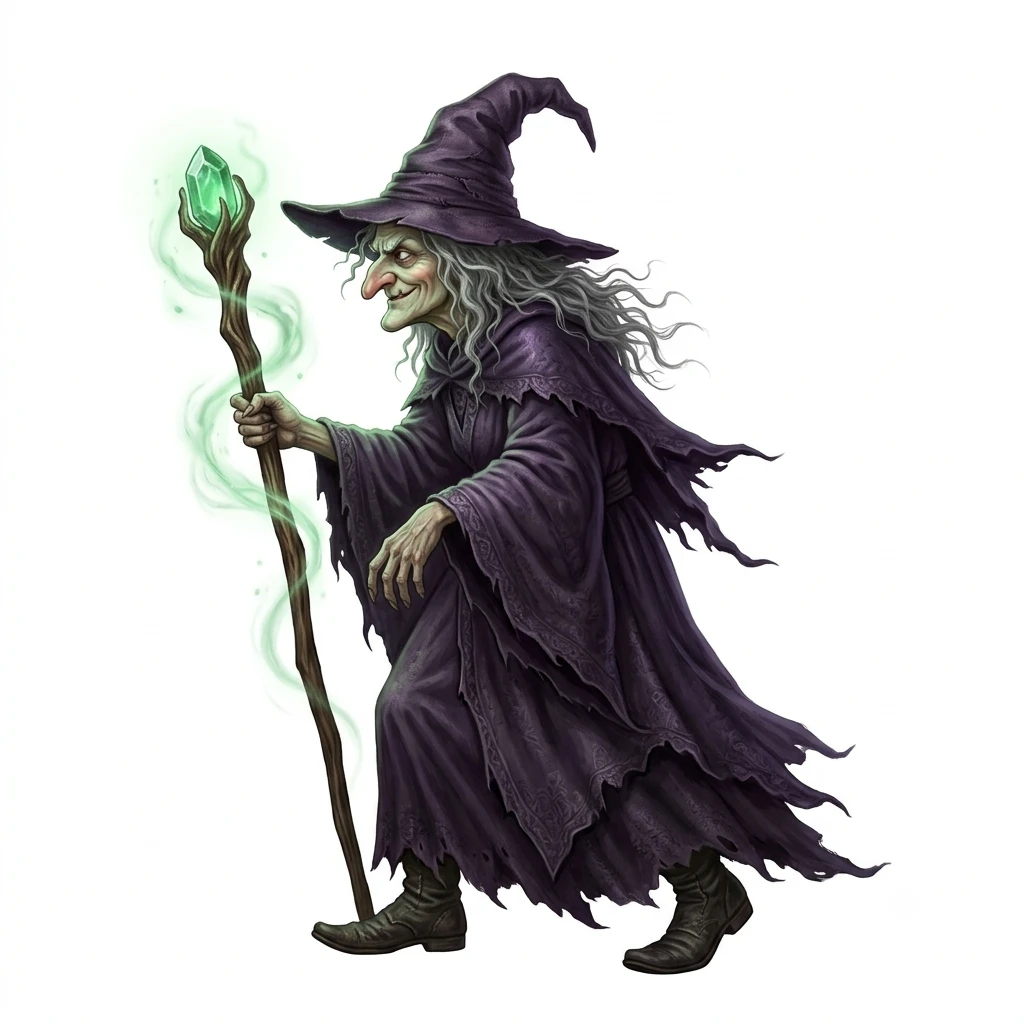
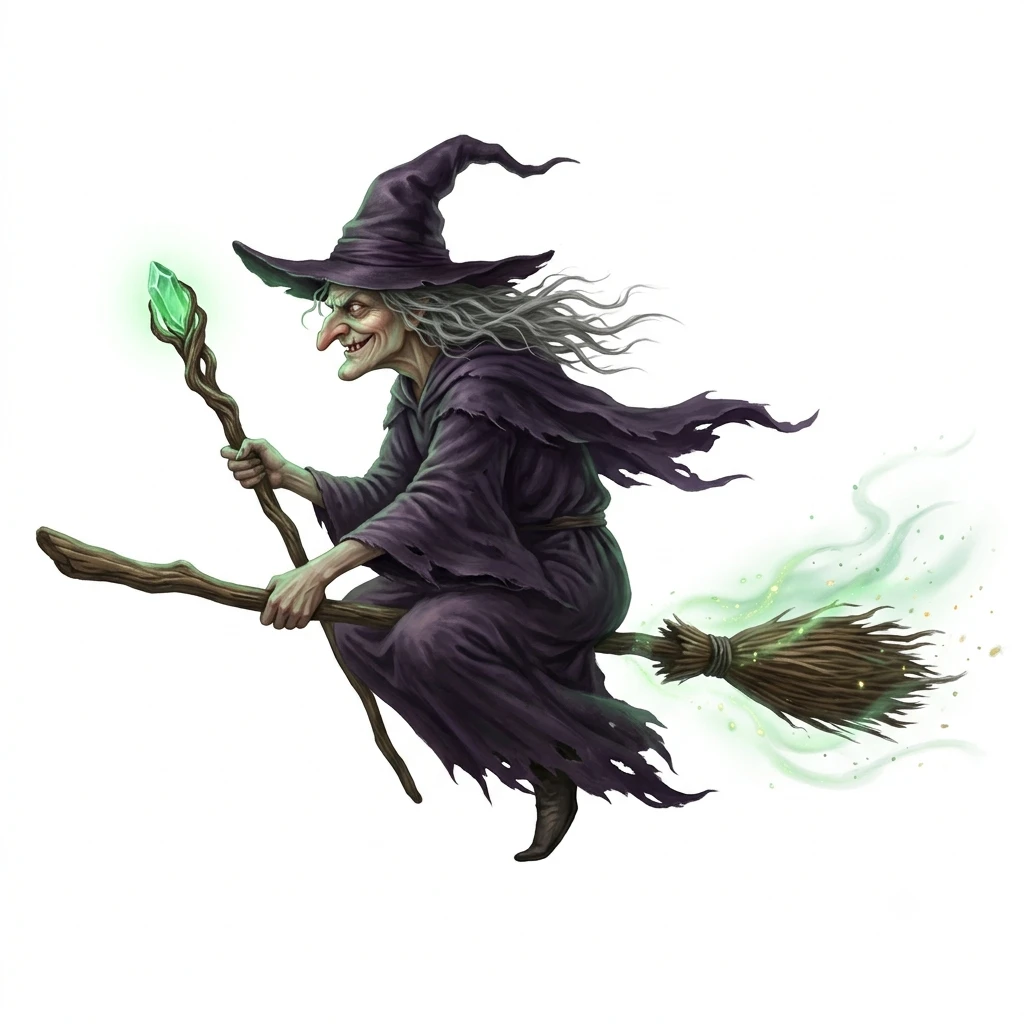
성 지키기: 다가오는 느낌, 고유 동작, 성 색조, 나는 몬스터 3종
- 뒷줄 몬스터는 작게 나타나 성에 다가올수록 커지고 앞으로 나온다
- 몬스터마다 길에서 두 번 고유 동작(점프, 덮치기, 포자, 불, 불씨, 기운 등). 위치와 빠르기는 그대로
- 성 색조를 배경 빛에 맞춘다(해 질 녘 주황, 메마른 땅 누런빛, 동굴 푸른빛, 용암 붉은빛)
- 빗자루 마녀로 바꾸고 큰까마귀·가고일을 더해 몬스터 17종, 레벨표 Lv.17까지

Changed region(s): [[0.0312, 0.0625, 0.9688, 0.9688]]

diff --git a/src/ui/style.css b/src/ui/style.css
@@ -256,7 +256,7 @@ button[aria-pressed='true'] { filter: brightness(.85); }
 .def-castle.hurt { filter: sepia(.4) brightness(.9); }
 .def-flag { position: absolute; top: 18px; left: 18px; font-size: 1.8em; }
 .def-lane { position: absolute; left: 74px; right: 0; top: calc(var(--lane) * 33.3%); height: 33.3%; }
-.enemy { position: absolute; bottom: 6px; transform: translateX(-50%); display: flex; flex-direction: column; align-items: center; transition: left .1s linear; z-index: calc(10 + var(--lane, 0) * 2); }
+.enemy { --s0: 1; --sg: .1; --drift: 0px; position: absolute; bottom: 6px; transform: translateX(-50%) translateY(calc(var(--p, 0) * var(--drift))) scale(calc(var(--s0) + var(--p, 0) * var(--sg))); transform-origin: 50% 100%; display: flex; flex-direction: column; align-items: center; transition: left .1s linear; z-index: calc(10 + var(--lane, 0) * 2); }
 .enemy.boom { animation: boom .45s ease-out forwards; }
 @keyframes boom { to { transform: translateX(-50%) scale(1.6) rotate(25deg); opacity: 0; } }
 .bubble { background: rgba(20, 20, 30, .9); color: #fff; border: 2px solid #fff; padding: 2px 8px; margin-bottom: 4px; font-size: .95em; line-height: 1.15; white-space: nowrap; }
@@ -341,7 +341,8 @@ button[aria-pressed='true'] { filter: brightness(.85); }
 .def-field.has-bg[data-stage] { --veil: transparent; --line: transparent; background-size: cover; background-position: center bottom; background-repeat: no-repeat; animation: none; }
 /* 세 줄은 땅(--ground 아래)에만 놓는다. 그림이 넓은 화면에서 잘릴 때는 하늘 쪽만 잘리므로(아래 맞춤) 땅이 하늘로 올라가지 않는다 */
 .def-field.has-bg .def-lane { top: calc(var(--ground, 55%) + (97% - var(--ground, 55%)) * var(--lane) / 3); height: calc((97% - var(--ground, 55%)) / 3); }
-.def-field.has-bg .enemy { transform: translateX(-50%) scale(calc(.78 + var(--lane) * .11)); transform-origin: 50% 100%; }
+/* 멀리(뒷줄) 있는 몬스터는 작게 나타나 성에 다가올수록 커지고 조금 앞으로 나온다 */
+.def-field.has-bg .enemy { --s0: calc(.68 + var(--lane) * .13); --sg: calc(.3 - var(--lane) * .1); --drift: calc((2 - var(--lane)) * 12px); }
 /* 어두운 땅(해 질 녘, 동굴, 용암)에서는 몬스터 둘레를 살짝 밝혀 잘 보이게 한다 */
 .def-field.has-bg[data-stage="2"] .mon.art img,
 .def-field.has-bg[data-stage="4"] .mon.art img,
@@ -353,9 +354,64 @@ button[aria-pressed='true'] { filter: brightness(.85); }
 /* 성 그림: 땅 위에 서 있고, 몬스터는 성벽 앞까지 온다 */
 .def-castle.art { top: auto; bottom: 1%; width: 150px; background: none; border: 0; }
 .def-castle.art::before, .def-castle.art .def-flag { display: none; }
-.def-castle.art img { display: block; width: 100%; filter: drop-shadow(5px 6px 6px rgba(0, 0, 0, .45)); }
-.def-castle.art.hurt img { filter: drop-shadow(5px 6px 6px rgba(0, 0, 0, .45)) sepia(.35) brightness(.85); }
+.def-castle.art img { display: block; width: 100%; filter: var(--castle-tone, brightness(1)) drop-shadow(5px 6px 6px rgba(0, 0, 0, .45)); transition: filter .8s; }
+.def-castle.art.hurt img { filter: var(--castle-tone, brightness(1)) sepia(.3) brightness(.85) drop-shadow(5px 6px 6px rgba(0, 0, 0, .45)); }
+/* 성 색조를 땅의 빛에 맞춘다: 밝기는 filter로, 빛의 색은 성 모양으로 오린 색 판을 곱하기(multiply)로 입힌다.
+   풀밭은 그대로, 해 질 녘은 주황빛, 메마른 땅은 누런 먼지빛, 동굴은 푸르고 어둡게, 용암 땅은 붉고 어둡게 */
+.def-castle.art::after { content: ''; position: absolute; inset: 0; pointer-events: none; background: var(--castle-tint, transparent); mix-blend-mode: multiply;
+  -webkit-mask: var(--castle-mask) center / 100% 100% no-repeat; mask: var(--castle-mask) center / 100% 100% no-repeat; transition: background .8s; }
+.def-field[data-stage="2"] { --castle-tone: brightness(.72); --castle-tint: #d8865c; }
+.def-field[data-stage="3"] { --castle-tone: brightness(1.06) contrast(.94); --castle-tint: #dba25f; }
+.def-field[data-stage="4"] { --castle-tone: brightness(.62); --castle-tint: #6d88ad; }
+.def-field[data-stage="5"] { --castle-tone: brightness(.62) contrast(1.1); --castle-tint: #d65a3c; }
 .def-field.castle-art .def-lane { left: 128px; }
 
 /* 엄폐물: 배경 그림의 그 부분만 오려 몬스터 위에 겹친다(뒷줄 몬스터를 가린다) */
 .def-cover { position: absolute; background-size: 100% 100%; background-repeat: no-repeat; pointer-events: none; }
+
+/* 몬스터 고유 동작(한 번에 1초쯤). 그림만 움직이고 자리는 그대로다 */
+.mon.art.acting img { animation-duration: 1s !important; animation-iteration-count: 1 !important; animation-timing-function: ease-in-out !important; }
+.mon.art.slime.acting img { animation-name: act-jump !important; }
+.mon.art.bat.acting img, .mon.art.witch.acting img, .mon.art.raven.acting img, .mon.art.gargoyle.acting img { animation-name: act-swoop !important; }
+.mon.art.mushroom.acting img { animation-name: act-puff !important; }
+.mon.art.spider.acting img, .mon.art.goblin.acting img { animation-name: act-pounce !important; }
+.mon.art.zombie.acting img { animation-name: act-lurch !important; }
+.mon.art.skeleton.acting img { animation-name: act-rattle !important; }
+.mon.art.ghost.acting img { animation-name: act-vanish !important; }
+.mon.art.golem.acting img, .mon.art.giant.acting img, .mon.art.knight.acting img { animation-name: act-stomp !important; }
+.mon.art.dragon.acting img { animation-name: act-roar !important; }
+.mon.art.lava.acting img { animation-name: act-erupt !important; }
+.mon.art.boss.acting img { animation-name: act-summon !important; }
+@keyframes act-jump { 15% { transform: scale(1.15, .8); } 45% { transform: translateY(-34px) scale(.9, 1.12); } 75% { transform: scale(1.18, .78); } }
+@keyframes act-swoop { 40% { transform: translateY(28px) rotate(-14deg); } 70% { transform: translateY(-6px) rotate(6deg); } }
+@keyframes act-puff { 20% { transform: scale(.9, 1.08); } 45% { transform: scale(1.12, .9); } 70% { transform: scale(.97, 1.03); } }
+@keyframes act-pounce { 25% { transform: translate(4px, 4px) scale(1.05, .9); } 50% { transform: translate(-16px, -26px) rotate(-12deg); } 80% { transform: translate(-6px, 0) scale(1.06, .94); } }
+@keyframes act-lurch { 30% { transform: rotate(-12deg) translateX(-10px); } 55% { transform: rotate(5deg); } 80% { transform: rotate(-4deg); } }
+@keyframes act-rattle { 10%, 30%, 50%, 70% { transform: rotate(-6deg); } 20%, 40%, 60%, 80% { transform: rotate(6deg); } }
+@keyframes act-vanish { 35%, 60% { opacity: .08; transform: translateY(-10px) scale(1.06); } }
+@keyframes act-stomp { 30% { transform: translateY(-14px) rotate(-5deg); } 50% { transform: translateY(2px) scale(1.04, .95); } 65% { transform: translateY(0); } }
+@keyframes act-roar { 30%, 60% { transform: rotate(7deg) scale(1.06); } }
+@keyframes act-erupt { 30%, 60% { filter: brightness(1.7) saturate(1.4) drop-shadow(0 0 10px rgba(255, 120, 0, .9)); transform: scale(1.05); } }
+@keyframes act-summon { 40%, 65% { filter: brightness(1.3) drop-shadow(0 0 16px rgba(170, 80, 255, .95)); transform: scale(1.08); } }
+/* 동작 효과 */
+.fx { position: absolute; pointer-events: none; z-index: 2; }
+.fx-spores { left: 50%; top: 10%; width: 6px; height: 6px; border-radius: 50%; background: #d8f07a;
+  box-shadow: -16px -6px 0 #e6f59a, 14px -10px 0 #cfe86a, -6px -18px 0 #f0f8b0, 10px 4px 0 #d8f07a, -20px 8px 0 #e6f59a; animation: fx-spread 1.2s ease-out forwards; }
+.fx-drops { left: 50%; top: 30%; width: 5px; height: 7px; border-radius: 50%; background: #9be37a;
+  box-shadow: -18px -4px 0 #9be37a, 16px -6px 0 #8bd96a, -8px -14px 0 #b5f09a; animation: fx-spread 1s ease-out forwards; }
+.fx-sparks { left: 10%; top: 20%; width: 5px; height: 5px; border-radius: 50%; background: #9dff7a;
+  box-shadow: -12px 6px 0 #7dff5a, 8px -10px 0 #c8ff9a, -4px -16px 0 #9dff7a, 14px 8px 0 #7dff5a; animation: fx-spread 1.2s ease-out forwards; }
+@keyframes fx-spread { from { transform: scale(.4); opacity: 1; } to { transform: scale(2.4) translateY(-12px); opacity: 0; } }
+.fx-dust { left: -20%; right: -20%; bottom: -6px; height: 18px; border-radius: 50%;
+  background: radial-gradient(closest-side, rgba(150, 130, 100, .75), rgba(150, 130, 100, 0)); animation: fx-dust 1.2s ease-out forwards; }
+@keyframes fx-dust { 0%, 30% { transform: scale(.3); opacity: 0; } 45% { opacity: 1; } to { transform: scale(1.6, 1.3); opacity: 0; } }
+.fx-fire { right: 70%; top: 18%; width: 90%; height: 34%; border-radius: 50% 0 0 50%;
+  background: linear-gradient(to left, rgba(255, 240, 150, .95), rgba(255, 140, 20, .85) 40%, rgba(220, 40, 0, 0)); transform-origin: 100% 50%; animation: fx-fire 1.1s ease-out forwards; }
+@keyframes fx-fire { 0%, 20% { transform: scaleX(0); opacity: 0; } 40% { opacity: 1; } 70% { transform: scaleX(1); opacity: .9; } to { transform: scaleX(1.1); opacity: 0; } }
+.fx-embers { left: 50%; top: 20%; width: 5px; height: 5px; border-radius: 50%; background: #ffb030;
+  box-shadow: -14px -4px 0 #ff8a00, 12px -8px 0 #ffd060, -6px -16px 0 #ff6a00, 18px 2px 0 #ffb030, -20px 6px 0 #ff8a00; animation: fx-rise 1.2s ease-out forwards; }
+@keyframes fx-rise { from { transform: translateY(0); opacity: 1; } to { transform: translateY(-40px) scale(1.3); opacity: 0; } }
+.fx-aura, .fx-aura-blue { left: -15%; right: -15%; top: 0; bottom: 0; border-radius: 50%; animation: fx-aura 1.2s ease-out forwards; }
+.fx-aura { box-shadow: 0 0 0 4px rgba(170, 80, 255, .8), 0 0 24px 8px rgba(140, 60, 230, .6); }
+.fx-aura-blue { box-shadow: 0 0 0 3px rgba(150, 210, 255, .7), 0 0 20px 6px rgba(120, 190, 255, .5); }
+@keyframes fx-aura { from { transform: scale(.6); opacity: 0; } 30% { opacity: 1; } to { transform: scale(1.3); opacity: 0; } }

diff --git a/src/core/defense.js b/src/core/defense.js
@@ -10,7 +10,7 @@ import { makeMulProblem } from './mulproblems.js';
 import { createRng, randInt, seedFrom } from './rng.js';
 
 /**
- * 몬스터 15종. 지도의 섬 차례(바로 넣기 → 친구수 → 5의 짝 → 함께 → 이어서 올리기 → 두 자리 → 곱셈)대로
+ * 몬스터 17종. 지도의 섬 차례(바로 넣기 → 친구수 → 5의 짝 → 함께 → 이어서 올리기 → 두 자리 → 곱셈)대로
  * 뒤로 갈수록 문제가 어렵고 점수가 크다. island: 무찌른 문제를 기술 지도에 넣을 때 쓰는 섬.
  */
 const D1 = ['A1', 'A2', 'B1', 'B2'];
@@ -20,6 +20,7 @@ export const ENEMIES = {
   bat: { name: '박쥐', points: 12, island: 'add-1', make: as(4, [1, 1], 1, [], D1) },
   mushroom: { name: '버섯', points: 15, island: 'add-2', make: as(3, [1, 1], 0, ['A4'], [...D1, 'A4']) },
   spider: { name: '거미', points: 20, island: 'add-3', make: as(3, [1, 1], 1, ['B4'], [...D1, 'A4', 'B4']) },
+  raven: { name: '큰까마귀', points: 22, island: 'add-3', make: as(4, [1, 1], 1, ['B4'], [...D1, 'A4', 'B4']) },
   zombie: { name: '좀비', points: 25, island: 'add-4', make: as(3, [1, 1], 1, ['A3', 'B3'], [...D1, 'A3', 'A4', 'B3', 'B4']) },
   skeleton: { name: '해골', points: 30, island: 'add-4', make: as(4, [1, 1], 1, ['A3', 'B3'], [...D1, 'A3', 'A4', 'B3', 'B4']) },
   ghost: { name: '유령', points: 35, island: 'add-5', make: as(4, [1, 1], 1, ['A5', 'B5'], [...D1, 'A3', 'A4', 'A5', 'B3', 'B4', 'B5']) },
@@ -29,6 +30,7 @@ export const ENEMIES = {
   witch: { name: '마녀', points: 55, island: 'mul-1digit', make: (s) => makeMulProblem(s, { multiDigits: 2, singleFirst: createRng(s)() < 0.5, need: { carry: false } }) },
   dragon: { name: '드래곤', points: 60, island: 'mul-1digit', make: (s) => makeMulProblem(s, { multiDigits: 2, singleFirst: createRng(s)() < 0.5 }) },
   giant: { name: '거인', points: 70, island: 'add-6', make: as(5, [2, 3], 2, [], null) },
+  gargoyle: { name: '가고일', points: 75, island: 'mul-1digit', make: (s) => makeMulProblem(s, { multiDigits: 2, singleFirst: createRng(s)() < 0.5, need: { carry: true } }) },
   lava: { name: '용암 골렘', points: 80, island: 'mul-1digit', make: (s) => makeMulProblem(s, { multiDigits: 3, singleFirst: createRng(s)() < 0.5 }) },
   boss: { name: '마왕', points: 100, island: 'add-6', make: as(5, [2, 3], 2, ['A5', 'A6', 'B5', 'B6'], null) },
 };
@@ -42,18 +44,20 @@ export const LEVELS = [
   { mix: { slime: 3, bat: 1 }, travel: 45 },
   { mix: { slime: 1, bat: 2, mushroom: 1 }, travel: 43 },
   { mix: { bat: 1, mushroom: 2, spider: 1 }, travel: 41 },
-  { mix: { mushroom: 1, spider: 2, zombie: 1 }, travel: 39 },
-  { mix: { spider: 1, zombie: 2, skeleton: 1 }, travel: 37 },
-  { mix: { zombie: 1, skeleton: 2, ghost: 1 }, travel: 35 },
-  { mix: { skeleton: 1, ghost: 2, goblin: 1 }, travel: 33 },
-  { mix: { ghost: 1, goblin: 2, golem: 1 }, travel: 31 },
-  { mix: { goblin: 1, golem: 2, knight: 1 }, travel: 30 },
-  { mix: { golem: 1, knight: 2, witch: 1 }, travel: 29 },
-  { mix: { knight: 1, witch: 2, dragon: 1 }, travel: 28 },
-  { mix: { witch: 1, dragon: 2, giant: 1 }, travel: 27 },
-  { mix: { dragon: 1, giant: 2, lava: 1 }, travel: 26 },
-  { mix: { giant: 1, lava: 2, boss: 1 }, travel: 25 },
-  { mix: { lava: 1, boss: 2 }, travel: 24 },
+  { mix: { mushroom: 1, spider: 2, raven: 1 }, travel: 39 },
+  { mix: { spider: 1, raven: 2, zombie: 1 }, travel: 37 },
+  { mix: { raven: 1, zombie: 2, skeleton: 1 }, travel: 35 },
+  { mix: { zombie: 1, skeleton: 2, ghost: 1 }, travel: 33 },
+  { mix: { skeleton: 1, ghost: 2, goblin: 1 }, travel: 31 },
+  { mix: { ghost: 1, goblin: 2, golem: 1 }, travel: 30 },
+  { mix: { goblin: 1, golem: 2, knight: 1 }, travel: 29 },
+  { mix: { golem: 1, knight: 2, witch: 1 }, travel: 28 },
+  { mix: { knight: 1, witch: 2, dragon: 1 }, travel: 27 },
+  { mix: { witch: 1, dragon: 2, giant: 1 }, travel: 26 },
+  { mix: { dragon: 1, giant: 2, gargoyle: 1 }, travel: 25 },
+  { mix: { giant: 1, gargoyle: 2, lava: 1 }, travel: 24 },
+  { mix: { gargoyle: 1, lava: 2, boss: 1 }, travel: 23 },
+  { mix: { lava: 1, boss: 2 }, travel: 22 },
 ];
 /** 레벨 하나에 무찌를 몬스터 수 */
 export const PER_LEVEL = 10;

diff --git a/src/ui/defense.js b/src/ui/defense.js
@@ -46,9 +46,13 @@ const COVERS = {
 // 성 그림(없으면 회색 블록 성)
 const CASTLE = Object.values(import.meta.glob('../content/backgrounds/castle.webp', { eager: true, import: 'default' }))[0];
 /** 화면에 그리는 너비(px). 셀수록 크다 */
-const ART_WIDTH = { slime: 76, bat: 96, mushroom: 70, spider: 90, zombie: 66, skeleton: 66, ghost: 74, goblin: 70, golem: 100, knight: 80, witch: 80, dragon: 124, giant: 100, lava: 104, boss: 116 };
+const ART_WIDTH = { slime: 76, bat: 96, mushroom: 70, spider: 90, zombie: 66, skeleton: 66, ghost: 74, goblin: 70, golem: 100, knight: 80, witch: 80, dragon: 124, giant: 100, lava: 104, boss: 116, raven: 98, gargoyle: 104 };
+/** 고유 동작을 하는 때(길의 몇 %). 몬스터 번호로 고른다. 한 마리가 두 번 한다 */
+const ACT_AT = [[0.22, 0.6], [0.34, 0.72], [0.28, 0.52]];
+/** 고유 동작에 붙는 효과 */
+const ACT_FX = { gargoyle: 'dust', mushroom: 'spores', golem: 'dust', giant: 'dust', knight: 'dust', dragon: 'fire', lava: 'embers', boss: 'aura', witch: 'sparks', ghost: 'aura-blue', slime: 'drops' };
 /** 날거나 떠 있는 몬스터(땅 그림자를 작게, 위아래로 떠다님) */
-const FLYING = new Set(['bat', 'ghost', 'witch']);
+const FLYING = new Set(['bat', 'ghost', 'witch', 'raven', 'gargoyle']);
 const monHTML = (type) => {
   const src = ART[`../content/monsters/${type}.webp`];
   if (!src) return `<div class="mon ${type}"><i></i></div>`;
@@ -133,6 +137,7 @@ export function createDefense(root, io) {
   const field = $('#def-field');
   if (CASTLE) {
     $('#def-castle').classList.add('art');
+    $('#def-castle').style.setProperty('--castle-mask', `url(${CASTLE})`); // 성 모양대로 색을 입힌다
     $('#def-castle').innerHTML = `<img src="${CASTLE}" alt="" draggable="false">`;
     field.classList.add('castle-art');
   }
@@ -195,6 +200,7 @@ export function createDefense(root, io) {
       defeated: [],
       gone: new Set(),
       els: new Map(),
+      acted: new Map(), // 몬스터마다 고유 동작을 몇 번 했는지
       over: false,
     };
     for (const lane of root.querySelectorAll('.def-lane')) lane.innerHTML = '';
@@ -241,7 +247,19 @@ export function createDefense(root, io) {
       game.els.set(e.id, el);
     }
     const alive = game.enemies.filter((e) => !game.gone.has(e.id));
-    for (const e of alive) game.els.get(e.id).style.left = `${(1 - positionAt(e, game.t)) * 100}%`;
+    for (const e of alive) {
+      const el = game.els.get(e.id);
+      const pos = positionAt(e, game.t);
+      el.style.left = `${(1 - pos) * 100}%`;
+      el.style.setProperty('--p', pos.toFixed(3)); // 성에 다가올수록 커지고 앞으로 나온다(CSS)
+      // 고유 동작: 길의 정해진 두 곳에서 한 번씩. 보기만 바뀌고 위치와 빠르기는 그대로다(난이도 그대로)
+      const at = ACT_AT[e.id % ACT_AT.length];
+      const done = game.acted.get(e.id) ?? 0;
+      if (done < at.length && pos >= at[done]) {
+        game.acted.set(e.id, done + 1);
+        act(el, e.type);
+      }
+    }
     for (const e of reached(alive, game.t)) {
       game.gone.add(e.id);
       game.els.get(e.id)?.remove();
@@ -283,6 +301,23 @@ export function createDefense(root, io) {
     if (level > game.level) levelUp(level);
     renderHud();
     return true;
+  }
+
+  /** 몬스터 고유 동작 한 번: 그림을 움직이고, 몬스터에 따라 효과(포자, 먼지, 불, 불씨, 기운)를 낸다 */
+  function act(el, type) {
+    const mon = el.querySelector('.mon.art');
+    if (!mon) return;
+    mon.classList.remove('acting');
+    void mon.offsetWidth;
+    mon.classList.add('acting');
+    setTimeout(() => mon.classList.remove('acting'), 1100);
+    const fx = ACT_FX[type];
+    if (fx) {
+      const s = document.createElement('span');
+      s.className = `fx fx-${fx}`;
+      mon.appendChild(s);
+      setTimeout(() => s.remove(), 1300);
+    }
   }
 
   /** 레벨이 오르면 잠깐 알려 주고, 배경을 다음 땅으로 바꾼다 */

diff --git a/docs/art-prompts.md b/docs/art-prompts.md
@@ -1,6 +1,6 @@
 # 성 지키기 그림 프롬프트 (2026-11-10)
 
-"주판 성 지키기" 몬스터 15종과 배경 5장을 AI 이미지 도구로 만들 때 쓰는 프롬프트다. 부모가 만들어 주면 앱에 넣는다.
+"주판 성 지키기" 몬스터 17종과 배경 5장을 AI 이미지 도구로 만들 때 쓰는 프롬프트다. 부모가 만들어 주면 앱에 넣는다.
 
 - 원칙
   - 리얼리티가 가장 중요하다(부모 결정).
@@ -23,15 +23,17 @@
 | `bat.png` | 박쥐 | A giant cave bat in flight, wings spread wide, leathery semi-translucent wing membranes with visible finger bones, dark brown fur, big pointed ears, glowing red eyes, small white fangs. |
 | `mushroom.png` | 버섯 | A walking mushroom monster with a red fly-agaric style cap covered in white warts, a pale cream stem with a frilly ring, angry little eyes and mouth on the stem, two tiny root-like feet. |
 | `spider.png` | 거미 | A large hairy jumping spider, fuzzy black and brown body with orange and white markings on the abdomen, big glossy front eyes, eight jointed legs, front legs slightly raised as if about to pounce. |
+| `raven.png` | 큰까마귀(날아옴) | A giant black raven in flight, wings spread wide, glossy blue-black feathers with realistic detail, sharp curved beak, glowing amber eyes, talons tucked under its body. |
 | `zombie.png` | 좀비 | A shambling zombie in tattered grey-brown rags, pale grey-green skin, sunken tired eyes, messy dark hair, arms stretched forward, torn trousers and worn boots. Spooky but harmless-looking, not rotting, not bloody. |
 | `skeleton.png` | 해골 | An animated skeleton warrior, aged ivory bones with realistic texture, dark eye sockets with faint blue glowing points, holding a rusty short sword and a cracked round wooden shield. |
 | `ghost.png` | 유령 | A floating ghost made of glowing pale blue mist and cloth-like wisps, hollow dark eyes and an open moaning mouth, its lower body fading into smoke, soft inner glow, semi-transparent. |
 | `goblin.png` | 고블린 | A small mischievous goblin with olive-green skin, very long pointed ears, a long crooked nose, yellow eyes, a sharp-toothed grin, wearing a patched leather vest, holding a wooden club with metal studs. |
 | `golem.png` | 바위 골렘 | A hulking rock golem made of stacked grey boulders, cracks across the stone, moss and small plants growing on its shoulders, huge stone fists hanging near the ground, small glowing blue eyes deep in a stone head. |
 | `knight.png` | 검은 기사 | A menacing black-armored knight, dark steel plate armor with worn edges and highlights, closed helmet with a narrow visor slit glowing red, a red plume, a tattered dark red cape, holding a longsword and a black kite shield. |
-| `witch.png` | 마녀 | A sinister old witch in a dark purple robe and a tall crooked pointed hat, pale greenish skin, long nose, wild grey hair, holding a gnarled wooden staff topped with a glowing green crystal orb, wisps of green magic around her hand. |
+| `witch.png` | 마녀(빗자루, 날아옴) | A sinister old witch flying on a long wooden broomstick, sitting sideways on the broom, dark purple robe and tall crooked pointed hat fluttering in the wind, pale greenish skin, long nose, wild grey hair streaming back, one hand holding a gnarled staff topped with a glowing green crystal, wisps of green magic trailing behind the broom. (날아오는 몬스터는 공통 문장의 "feet touching the bottom" 대신 "flying toward the LEFT edge, in mid-air with no ground beneath") |
 | `dragon.png` | 드래곤 | A red dragon standing on all fours, crimson scales with realistic texture, golden belly plates, large bat-like wings half raised, curved horns, yellow slit-pupil eyes, smoke curling from its nostrils, a long spiked tail. |
 | `giant.png` | 거인 | A huge brutish giant with tan weathered skin, a heavy brow, a bushy brown beard, wearing animal-hide clothes with a rope belt, carrying an enormous tree-trunk club over one shoulder. |
+| `gargoyle.png` | 가고일(날아옴) | A stone gargoyle flying with large bat-like stone wings spread, grey weathered granite body with cracks and patches of moss, curved horns, glowing orange eyes, sharp stone claws, a long tail. |
 | `lava.png` | 용암 골렘 | A golem made of black volcanic basalt with bright glowing orange-yellow lava flowing through deep cracks, embers and sparks floating off it, burning eyes, molten drips falling from its fists. |
 | `boss.png` | 마왕 | The final boss, a tall demon king in ornate black and purple armor, huge curved horns, a jagged golden crown, face hidden in shadow with two glowing red eyes, a long tattered black cape with crimson lining, holding a staff with a glowing purple crystal, a dark purple aura around him. |
 

diff --git a/docs/SPEC.md b/docs/SPEC.md
@@ -92,8 +92,8 @@
 
 - 지도 위 "🏰 게임: 주판 성 지키기" 카드로 들어간다. 수업·문제 풀기 섬과 따로 있다.
 - 몬스터가 세 줄로 성을 향해 다가온다. 몬스터마다 문제가 붙어 있고, 그 답을 숫자판이나 말로 내면 무찌른다. 같은 답을 가진 몬스터가 여럿이면 성에 가장 가까운 것부터 무찌른다. 화면에 있는 몬스터끼리는 답이 겹치지 않게 만든다.
-- **레벨(2026-11-10 바뀜, 부모 결정):** 게임 전에는 시작 레벨(Lv.1~15)만 고른다. 몬스터를 10마리 무찌를 때마다 레벨이 하나 오른다. 레벨이 오르면 몬스터가 조금씩 세지고 빨라진다. 레벨은 내려가지 않는다. 성벽이 다 깎이거나 "그만"을 누를 때까지 몬스터가 계속 나온다.
-- 몬스터 15종(`src/core/defense.js`). 지도의 섬 차례대로 뒤로 갈수록 문제가 어렵고 점수가 크다.
+- **레벨(2026-11-10 바뀜, 부모 결정):** 게임 전에는 시작 레벨(Lv.1~17)만 고른다. 몬스터를 10마리 무찌를 때마다 레벨이 하나 오른다. 레벨이 오르면 몬스터가 조금씩 세지고 빨라진다. 레벨은 내려가지 않는다. 성벽이 다 깎이거나 "그만"을 누를 때까지 몬스터가 계속 나온다.
+- 몬스터 17종(`src/core/defense.js`). 지도의 섬 차례대로 뒤로 갈수록 문제가 어렵고 점수가 크다.
 
   | 몬스터 | 점수 | 문제 |
   |---|---|---|
@@ -101,6 +101,7 @@
   | 박쥐 | 12 | 한 자리 네 줄, 바로 넣기·빼기 |
   | 버섯 | 15 | 친구수 덧셈 |
   | 거미 | 20 | 친구수 뺄셈 |
+  | 큰까마귀(날아옴) | 22 | 친구수 뺄셈, 네 줄 |
   | 좀비 | 25 | 5의 짝, 세 줄 |
   | 해골 | 30 | 5의 짝, 네 줄 |
   | 유령 | 35 | 친구수와 5의 짝 함께 |
@@ -110,9 +111,10 @@
   | 마녀 | 55 | 두 자리 × 한 자리(올림 없음) |
   | 드래곤 | 60 | 두 자리 × 한 자리 |
   | 거인 | 70 | 두~세 자리 다섯 줄 |
+  | 가고일(날아옴) | 75 | 두 자리 × 한 자리(올림 있음) |
   | 용암 골렘 | 80 | 세 자리 × 한 자리 |
   | 마왕 | 100 | 두~세 자리 다섯 줄, 친구수와 5의 짝 함께·이어서 올리기 |
-- 레벨표: 레벨마다 가장 약한 몬스터가 하나 빠지고 새 몬스터가 하나 들어와 종류가 서서히 바뀐다. 성까지 오는 시간은 Lv.1 45초에서 Lv.15 24초까지 조금씩 짧아지고, 그 뒤로는 한 레벨에 1초씩 줄어 16초에서 멈춘다. 몬스터는 성까지 오는 시간의 4분의 1마다 하나씩 나온다.
+- 레벨표: 레벨마다 가장 약한 몬스터가 하나 빠지고 새 몬스터가 하나 들어와 종류가 서서히 바뀐다. 성까지 오는 시간은 Lv.1 45초에서 Lv.17 22초까지 조금씩 짧아지고, 그 뒤로는 한 레벨에 1초씩 줄어 16초에서 멈춘다. 몬스터는 성까지 오는 시간의 4분의 1마다 하나씩 나온다.
 - 그림(2026-11-10, 부모 결정: 블록 모양이 아니어도 되고 리얼리티가 가장 중요하다): 몬스터와 배경은 부모가 AI 이미지 도구로 만든 그림을 쓴다(프롬프트: `docs/art-prompts.md`). 원본은 `assets/monsters/`·`assets/backgrounds/`에 두고, `npm run art`가 바탕을 지우고 줄여 `src/content/monsters/`·`src/content/backgrounds/`에 WebP로 만든다. 그림이 아직 없는 몬스터는 블록 모양으로 그린다.
 - 배경 그림이 있는 단계는 그림을 깐다. 땅에서 걷는 몬스터는 하늘에 서지 않는다(부모 결정, 2026-11-10): 배경마다 땅이 시작하는 높이를 재어 두고(src/ui/defense.js의 GROUND) 세 줄을 그 아래 땅에만 놓는다. 넓은 화면에서 그림이 잘릴 때는 하늘 쪽만 잘린다. 뒷줄 몬스터는 작게 그려 멀리 있어 보이게 한다. 이미지 도구가 오른쪽 아래에 찍는 반짝이 표시는 오른쪽 끝 10%를 잘라 없앤다.
 - 엄폐물(2026-11-10, 부모 결정): 배경의 바위·덤불·종유석처럼 앞에 놓인 것은 테두리를 따 두고(src/ui/defense.js의 COVERS), 같은 그림을 그 모양으로 오려 뒷줄 몬스터 위에 겹친다. 몬스터가 그 뒤에서 나오는 것처럼 보인다. 실감을 높이려는 것뿐이라 몬스터는 늘 오른쪽 끝에서 같은 빠르기로 오고 난이도는 바뀌지 않는다.
